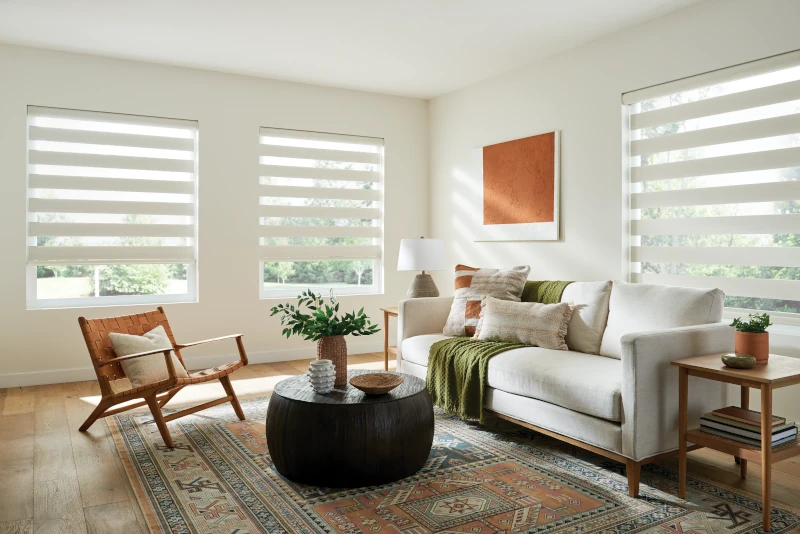
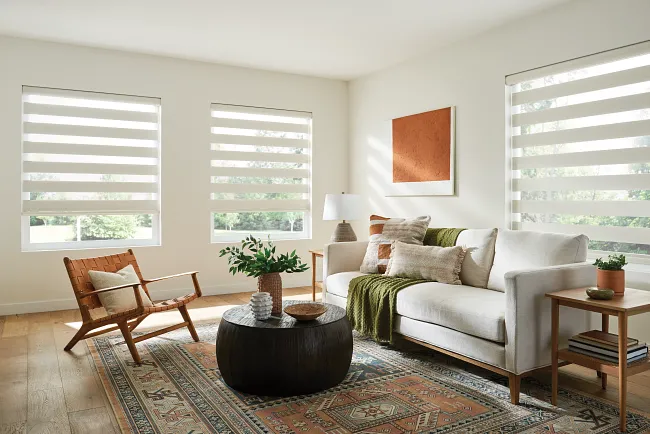
Update

diff --git a/blog.html b/blog.html
@@ -80,7 +80,7 @@
         </div></a>
         <a href='/WindowShadeOpacitiesExplained.html'>
           <div class="card">
-            <img src="images/4110-layered-shades-rs23-v1.webp" alt="Graber Layered Shades">
+            <img src="images/4110-layered-shades-rs23-v1.webp" alt="Graber Layered Shades" width='650' height='433'>
             <h1 class='text-neutral-900 fs-500 left-align margin-t-15 balanced-text'>Window Shade Opacities, Explained</h1>
           </div>
         </a>
